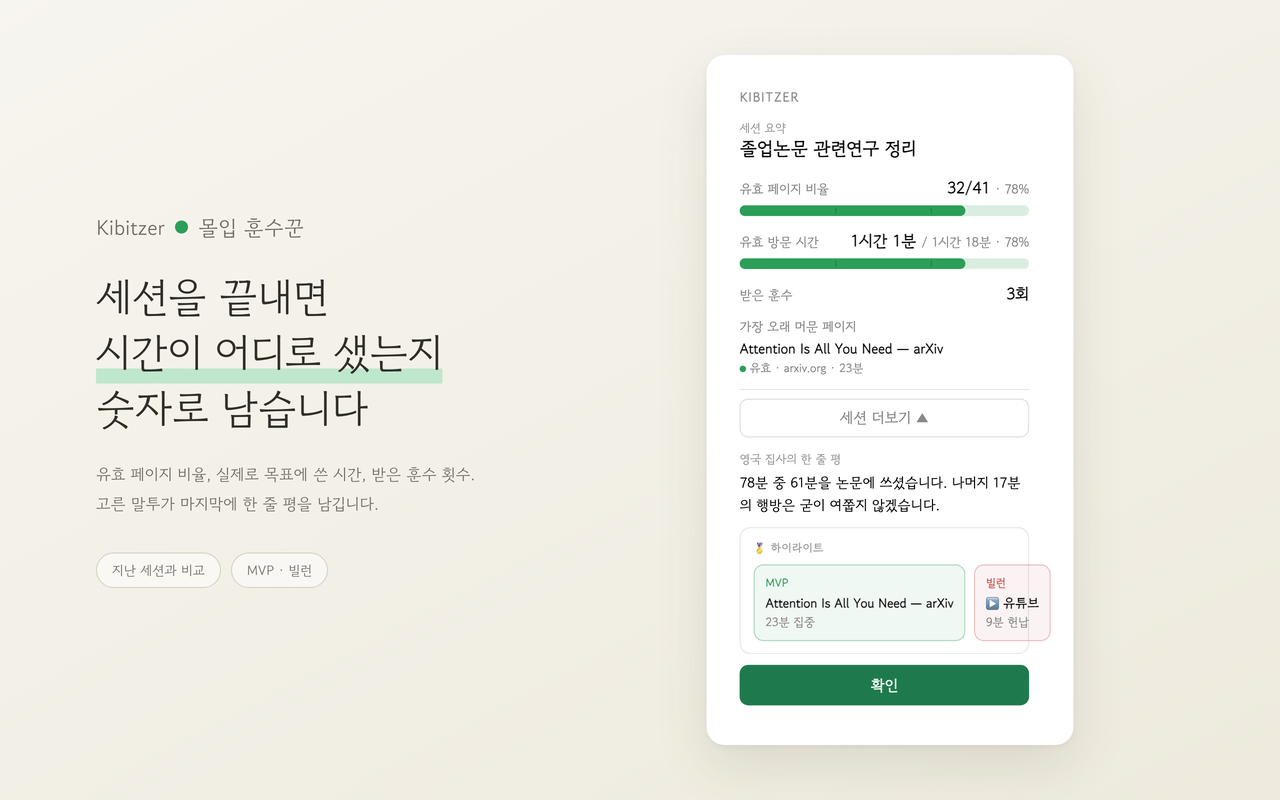
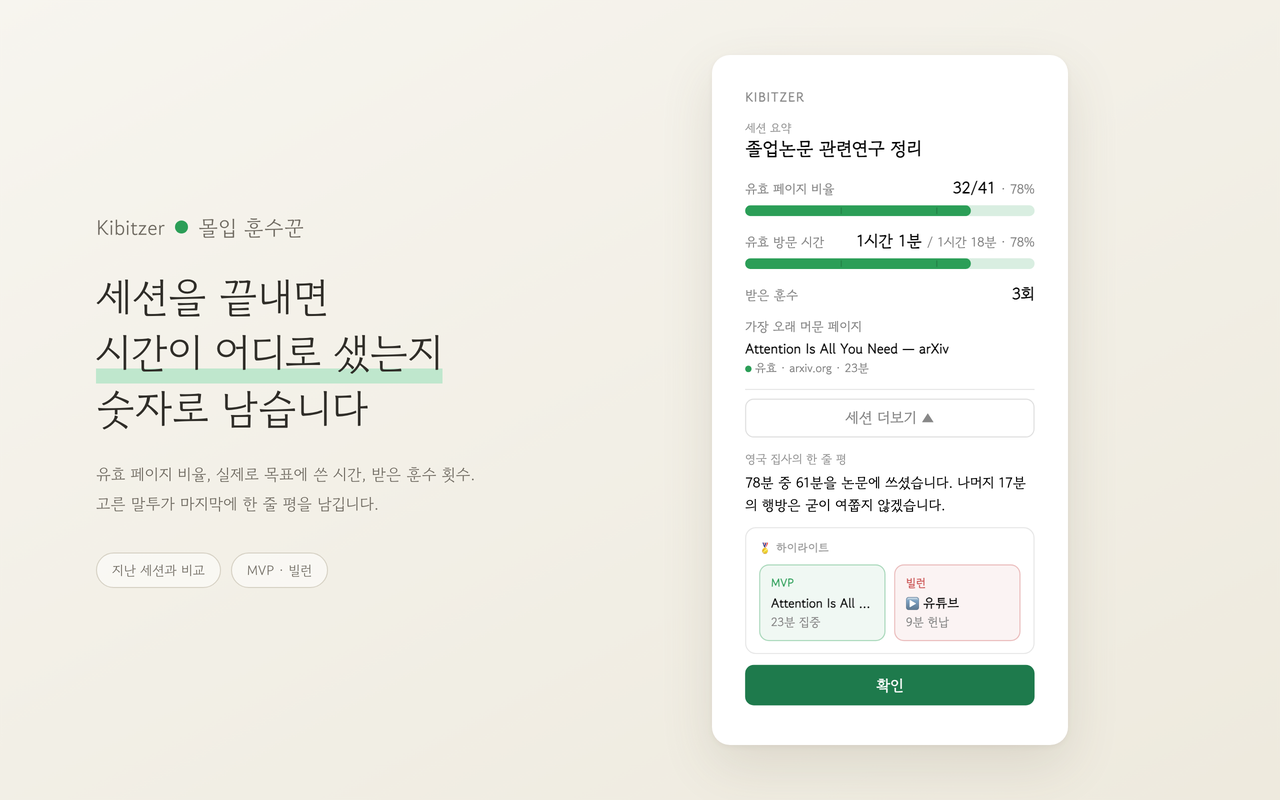
docs: PR #209 리뷰 반영 — 리스팅 문구·프로모 타일·요약 카드 넘침
리뷰 코멘트대로 스토어 본문 문구를 다듬고, 이미지 두 장을 다시 찍고,
그 과정에서 드러난 팝업 버그를 함께 고친다. 마퀴 타일은 손대지 않는다.

- 문구: 요약에서 "로컬 집중 도우미/서버 없음"을 빼고 "몰입 도우미"로
  (manifest.json description도 같이), "목소리"→"말투", "프라이버시가
  기본값입니다"→"프라이버시를 지킵니다", 서버 유무 대신 "개발자는 아무런
  데이터도 수집하지 않습니다", "선택한 제공자"→"선택한 AI 서비스 제공자",
  "AI 제공자 연결"→"LLM API 연결".
- 정책 URL: 저장소가 공개이므로 main의 privacy-policy.ko.md blob URL을
  기입하고 체크리스트를 닫는다.
- 5 · 프라이버시: 상단 두 줄을 "기록은 내 브라우저 안에만 남습니다 /
  클라우드 AI 사용은 선택입니다 …"로 교체.
- 3 · 세션 요약: 하이라이트 카드 넘침은 스크린샷이 아니라 실제 팝업 버그였다.
  .hl이 1fr 1fr 그리드인데 .hlc에 min-width:0이 없어 nowrap인 .hn 제목의
  min-content 너비가 트랙을 밀어내, 긴 MVP 제목이면 빌런 카드가 카드 밖으로
  나간다. 한 줄을 추가해 고치고 그 팝업에서 다시 캡처했다.
- 프로모 타일: 캐릭터 좌표를 icons/icon-128.png에서 실측해 옮겼다 — 눈높이와
  손 크기·위치를 아이콘 비율에 맞추고, 얼굴을 페이지 앞이 아니라 뒤에서
  넘겨다보게 칠하고, 머리 반지름을 46→70으로 키우고 전체를 위로 끌어올린 뒤
  Kibitzer 아래에 "몰입 훈수꾼"을 병기했다.

Changed region(s): [[0.5312, 0.0938, 0.8438, 0.9375], [0.6562, 0.5, 0.7188, 0.5312], [0.6875, 0.8438, 0.7188, 0.875]]

diff --git a/apps/extension-next/src/popup/popup.html b/apps/extension-next/src/popup/popup.html
@@ -130,7 +130,10 @@
       .rank.bad .bar i { background: #c94f4f; }
       .rank .vv { color: #888; font-variant-numeric: tabular-nums; white-space: nowrap; }
       .hl { display: grid; grid-template-columns: 1fr 1fr; gap: 8px; }
-      .hlc { padding: 9px 10px; border-radius: 9px; border: 1px solid #8883; }
+      /* min-width:0 — without it the grid track takes its size from .hn's nowrap
+         min-content width, so a long MVP page title pushes the 빌런 card out of
+         the card's right edge instead of ellipsizing. */
+      .hlc { min-width: 0; padding: 9px 10px; border-radius: 9px; border: 1px solid #8883; }
       .hlc.mvp { border-color: color-mix(in srgb, #2b9e57 35%, transparent); background: color-mix(in srgb, #2b9e57 7%, transparent); }
       .hlc.vil { border-color: color-mix(in srgb, #c94f4f 32%, transparent); background: color-mix(in srgb, #c94f4f 7%, transparent); }
       .hlc .hk { font-size: 10.5px; font-weight: 700; margin-bottom: 3px; }
